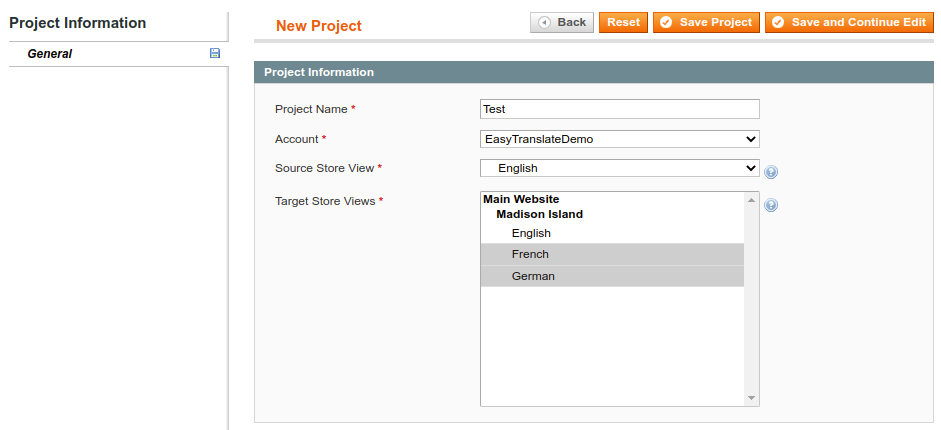
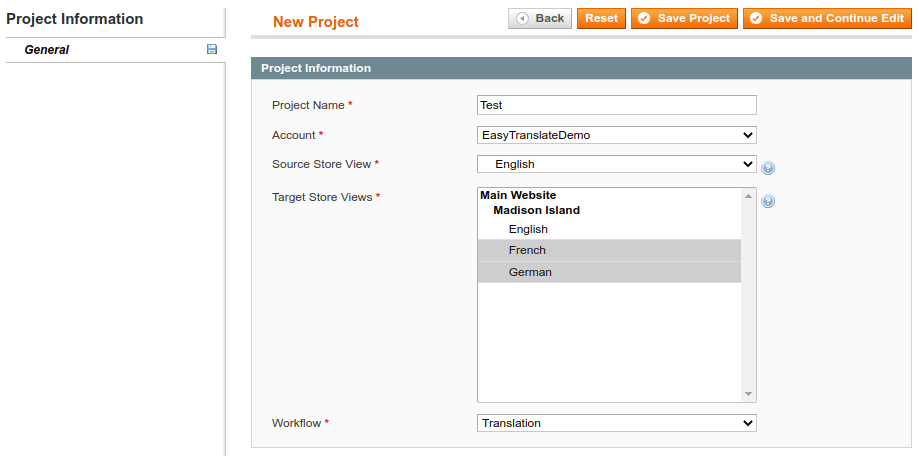
Implement different workflows, SUP-4517

Changed region(s): [[0.0, 0.0, 1.0, 0.9977], [0.518, 0.8767, 0.8226, 0.9372]]

diff --git a/src/app/code/community/EasyTranslate/Connector/Model/Source/Workflow.php b/src/app/code/community/EasyTranslate/Connector/Model/Source/Workflow.php
@@ -1,0 +1,30 @@
+<?php
+
+declare(strict_types=1);
+
+use EasyTranslate\Workflow;
+
+class EasyTranslate_Connector_Model_Source_Workflow
+{
+    public function getOptions(): array
+    {
+        /** @var EasyTranslate_Connector_Helper_Data $helper */
+        $helper = Mage::helper('easytranslate');
+
+        return [
+            Workflow::TYPE_TRANSLATION              => $helper->__('Translation'),
+            Workflow::TYPE_TRANSLATION_REVIEW       => $helper->__('Translation and review'),
+            Workflow::TYPE_SELF_MACHINE_TRANSLATION => $helper->__('Translate yourself'),
+        ];
+    }
+
+    public function toOptionArray(): array
+    {
+        $options = [];
+        foreach ($this->getOptions() as $value => $label) {
+            $options[] = ['value' => $value, 'label' => $label];
+        }
+
+        return $options;
+    }
+}

diff --git a/src/lib/EasyTranslate/Project.php b/src/lib/EasyTranslate/Project.php
@@ -39,6 +39,11 @@ class Project implements ProjectInterface
     /**
      * @var string
      */
+    private $workflow = Workflow::TYPE_TRANSLATION;
+
+    /**
+     * @var string
+     */
     private $folderId;
 
     /**
@@ -94,6 +99,11 @@ class Project implements ProjectInterface
     public function getContent(): ?array
     {
         return $this->content;
+    }
+
+    public function getWorkflow(): string
+    {
+        return $this->workflow;
     }
 
     public function getFolderId(): ?string
@@ -154,6 +164,11 @@ class Project implements ProjectInterface
     public function setContent(?array $content): void
     {
         $this->content = $content;
+    }
+
+    public function setWorkflow(string $workflow): void
+    {
+        $this->workflow = $workflow;
     }
 
     public function setFolderId(?string $folderId): void

diff --git a/src/app/code/community/EasyTranslate/Connector/Block/Adminhtml/Project/Edit/Tab/General.php b/src/app/code/community/EasyTranslate/Connector/Block/Adminhtml/Project/Edit/Tab/General.php
@@ -102,6 +102,15 @@ class EasyTranslate_Connector_Block_Adminhtml_Project_Edit_Tab_General extends M
         ]);
         $field->setRenderer($renderer);
 
+        $fieldset->addField('workflow', 'select', [
+            'name'     => 'workflow',
+            'label'    => $this->_getHelper()->__('Workflow'),
+            'title'    => $this->_getHelper()->__('Workflow'),
+            'required' => true,
+            'values'   => Mage::getModel('easytranslate/source_workflow')->toOptionArray(),
+            'disabled' => !$canEdit,
+        ]);
+
         if ($project instanceof EasyTranslate_Connector_Model_Project) {
             $values                        = $project->getData();
             $values['included_products']   = implode(',', $project->getProducts());

diff --git a/src/app/code/community/EasyTranslate/Connector/sql/easytranslate_setup/upgrade-1.0.0-1.1.0.php b/src/app/code/community/EasyTranslate/Connector/sql/easytranslate_setup/upgrade-1.0.0-1.1.0.php
@@ -1,0 +1,20 @@
+<?php
+
+/** @var $installer Mage_Core_Model_Resource_Setup */
+
+$installer = $this;
+
+$installer->startSetup();
+
+$projectTableName = $installer->getTable('easytranslate/project');
+$installer->getConnection()
+    ->addColumn($projectTableName, 'workflow', [
+        'type'     => Varien_Db_Ddl_Table::TYPE_TEXT,
+        'length'   => 64,
+        'nullable' => false,
+        'comment'  => 'Workflow',
+    ]);
+
+$installer->getConnection()->update($projectTableName, ['workflow' => 'translation']);
+
+$installer->endSetup();

diff --git a/src/lib/EasyTranslate/Api/Response/CreateProjectResponse.php b/src/lib/EasyTranslate/Api/Response/CreateProjectResponse.php
@@ -31,6 +31,7 @@ class CreateProjectResponse extends AbstractResponse
         $project->setFolderId($data['data']['attributes']['folder_id']);
         $project->setFolderName($data['data']['attributes']['folder_name']);
         $project->setName($data['data']['attributes']['name']);
+        $project->setWorkflow($data['data']['attributes']['workflow']);
         $tasks = $this->extractTasks($data, $project);
         $project->setTasks($tasks);
         if (isset($data['data']['attributes']['price'])) {

diff --git a/src/lib/EasyTranslate/Api/Request/CreateProjectRequest.php b/src/lib/EasyTranslate/Api/Request/CreateProjectRequest.php
@@ -37,6 +37,7 @@ class CreateProjectRequest extends AbstractRequest
                 'source_language'  => $this->project->getSourceLanguage(),
                 'target_languages' => $this->project->getTargetLanguages(),
                 'content'          => $this->project->getContent(),
+                'workflow'         => $this->project->getWorkflow(),
                 'callback_url'     => $this->project->getCallbackUrl(),
             ],
         ];

diff --git a/src/app/code/community/EasyTranslate/Connector/Model/Bridge/Project.php b/src/app/code/community/EasyTranslate/Connector/Model/Bridge/Project.php
@@ -101,6 +101,11 @@ class EasyTranslate_Connector_Model_Bridge_Project implements ProjectInterface
         return Mage::getModel('easytranslate/content_generator_product')->getContent($productIds);
     }
 
+    public function getWorkflow(): string
+    {
+        return $this->_magentoProject->getData('workflow');
+    }
+
     public function getFolderId(): ?string
     {
         return null;

diff --git a/src/lib/EasyTranslate/Workflow.php b/src/lib/EasyTranslate/Workflow.php
@@ -1,0 +1,14 @@
+<?php
+
+declare(strict_types=1);
+
+namespace EasyTranslate;
+
+class Workflow
+{
+    public const TYPE_TRANSLATION = 'translation';
+
+    public const TYPE_TRANSLATION_REVIEW = 'translation+review';
+
+    public const TYPE_SELF_MACHINE_TRANSLATION = 'self+machine_translation';
+}

diff --git a/src/lib/EasyTranslate/ProjectInterface.php b/src/lib/EasyTranslate/ProjectInterface.php
@@ -18,6 +18,8 @@ interface ProjectInterface
 
     public function getContent(): ?array;
 
+    public function getWorkflow(): string;
+
     public function getFolderId(): ?string;
 
     public function getFolderName(): ?string;
